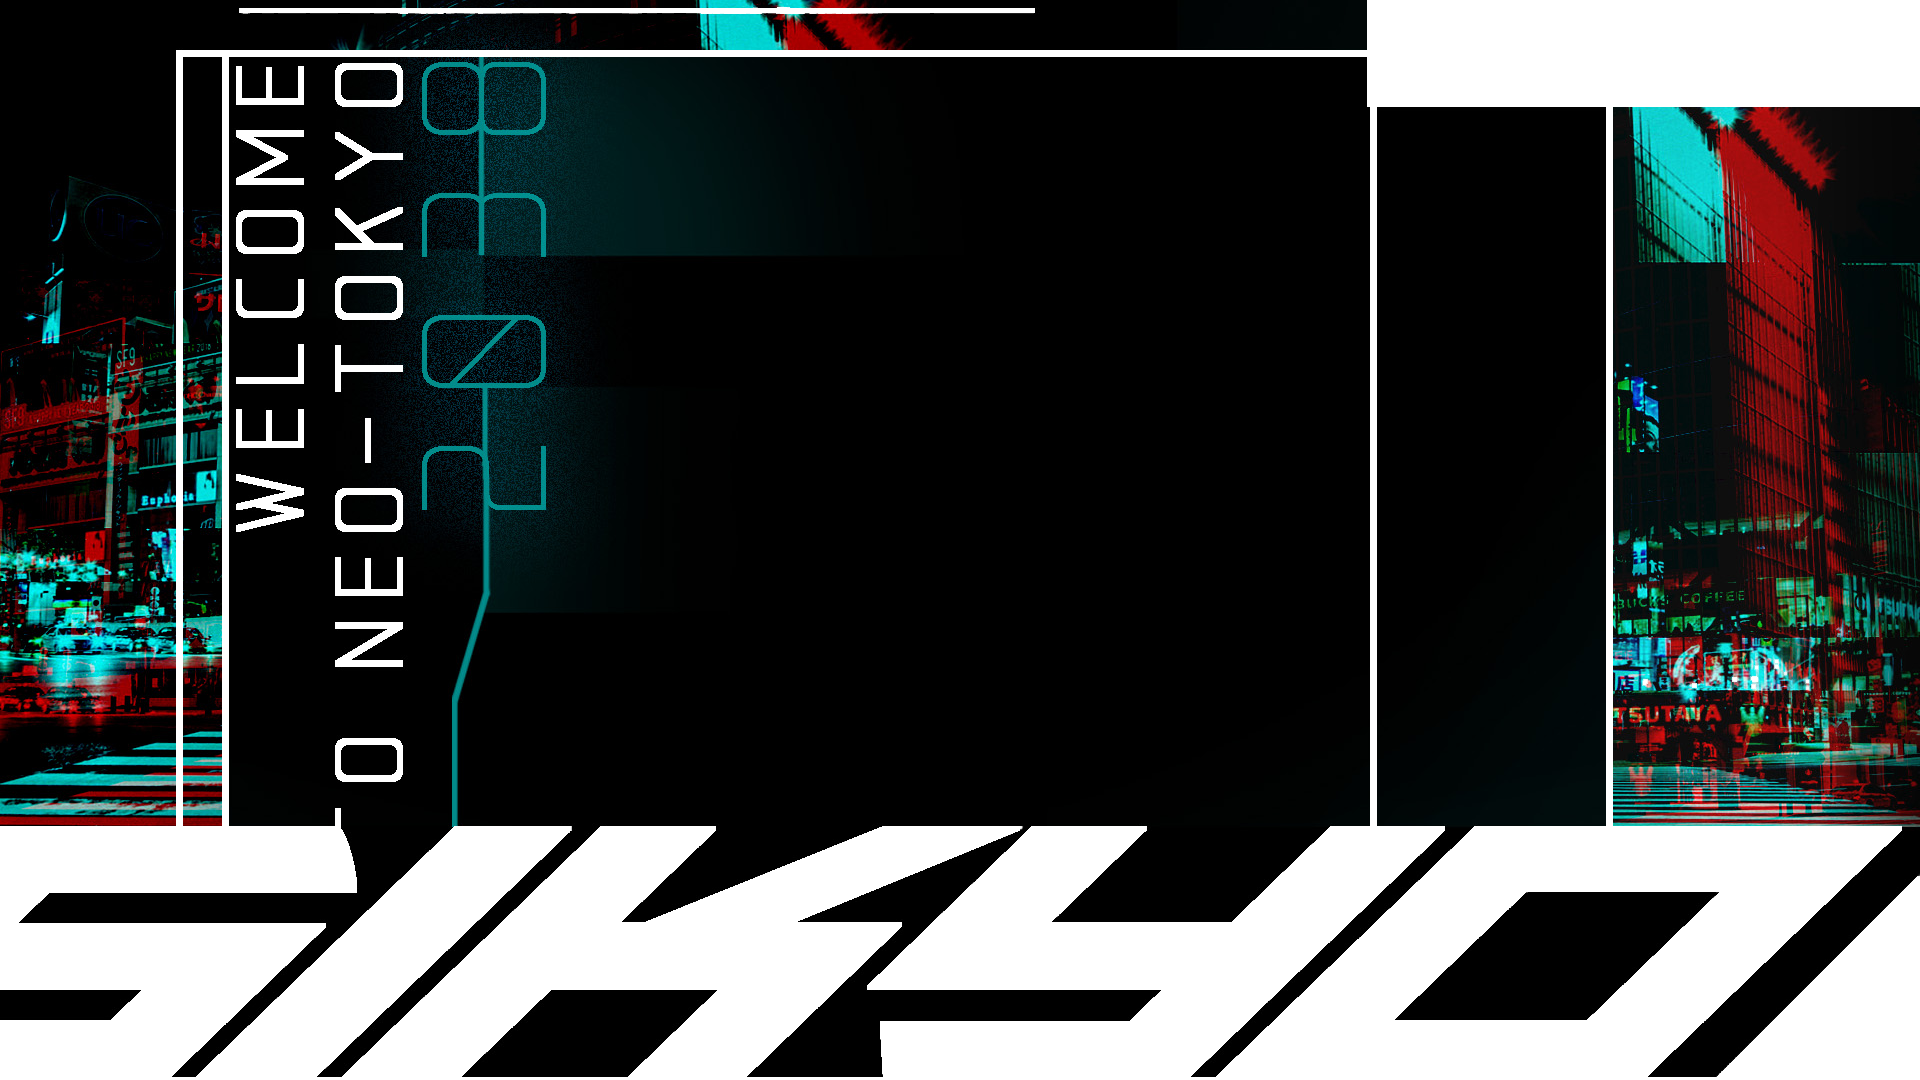
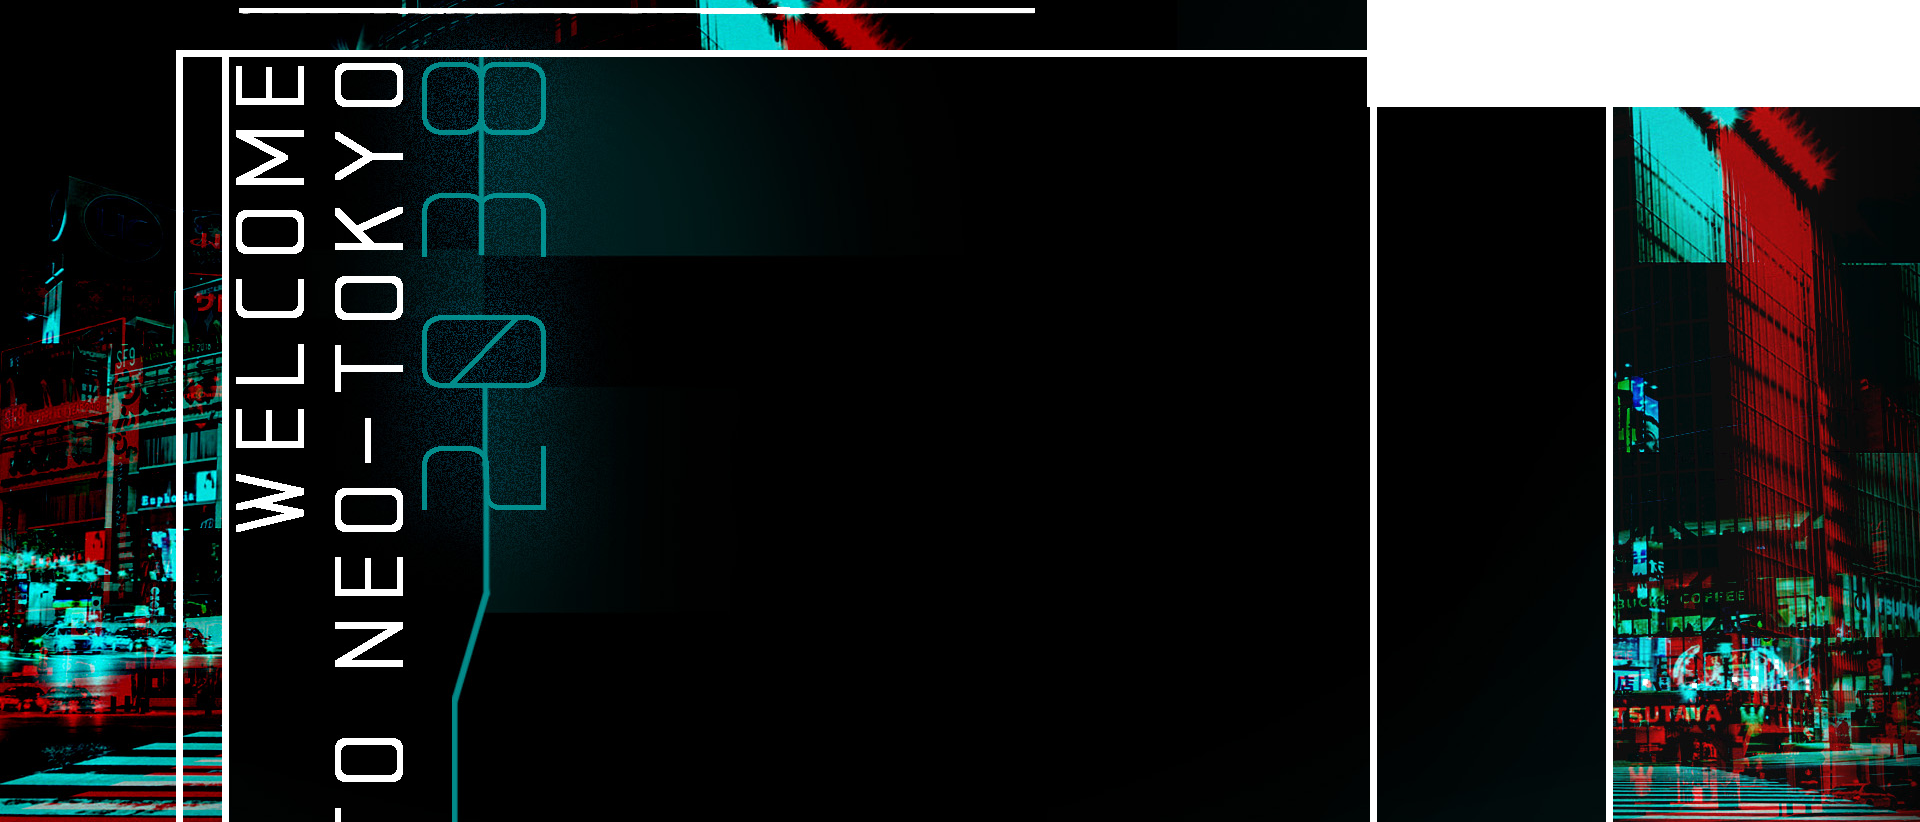
s

diff --git a/css/style6.css b/css/style6.css
@@ -55,16 +55,18 @@ z-index: -1000;
 
 /* glitch elem must have absolute position */
  .glitch-img {
+ background-image: url('../images/sikyo_background.png');
    position: fixed; 
    width : 100%; 
    height : 100%; 
    top: 0 ; 
    left : 0; 
-   background-position:center;  
-   -moz-background-size:cover;
-   -o-background-size:cover;
-   -webkit-background-size:cover;
-   background-size:cover;
+/*   background-position:center;  */
+   -moz-background-size:contain;
+   -o-background-size:contain;
+   -webkit-background-size:contain;
+   background-size:contain;
+   background-repeat: no-repeat;
    opacity : 1
  } 
 
@@ -87,6 +89,15 @@ z-index: -1000;
 .sikyo_isolated{
 	z-index: 100;
   background-image: url('../images/sikyo_isolated.png');
+  background-repeat: no-repeat;
+  background-size: cover;
+  height: 1080px;
+  transition: ease 1s;
+}
+
+.sikyo_bottom{
+	z-index: 100;
+  background-image: url('../images/sikyo_bottom.png');
   background-repeat: no-repeat;
   background-size: cover;
   height: 1080px;

diff --git a/js/glitch.js b/js/glitch.js
@@ -13,12 +13,12 @@ $( function() {
           // select blend mode type
           blendModeType : 'hue',
           // set min time for glitch 1 elem
-          glitch1TimeMin : 200, 
+          glitch1TimeMin : 300, 
           // set max time for glitch 1 elem
-          glitch1TimeMax : 400,
+          glitch1TimeMax : 500,
           // set min time for glitch 2 elem
-          glitch2TimeMin : 10, 
+          glitch2TimeMin : 100, 
           // set max time for glitch 2 elem
-          glitch2TimeMax : 100, 
+          glitch2TimeMax : 200, 
 		});
 });

diff --git a/itSikyo_animated.html b/itSikyo_animated.html
@@ -28,10 +28,12 @@
 
 <div class="container">
    <!-- this elem will be glitch -->
-   <div class="glitch-img" style="background-image: url('images/sikyo_background.png')"></div>
+   <div class="glitch-img"></div>
 </div>
 
-<div class="sikyo_isolated"></div>
+<div class="sikyo_bottom">
+    <div class="sikyo_isolated"></div>
+</div>
 
     <script src='https://cdnjs.cloudflare.com/ajax/libs/jquery/3.0.0-beta1/jquery.min.js'></script>
     <script src='https://cdn.jsdelivr.net/gh/hmongouachon/mgGlitch/src/mgGlitch.min.js'></script>
